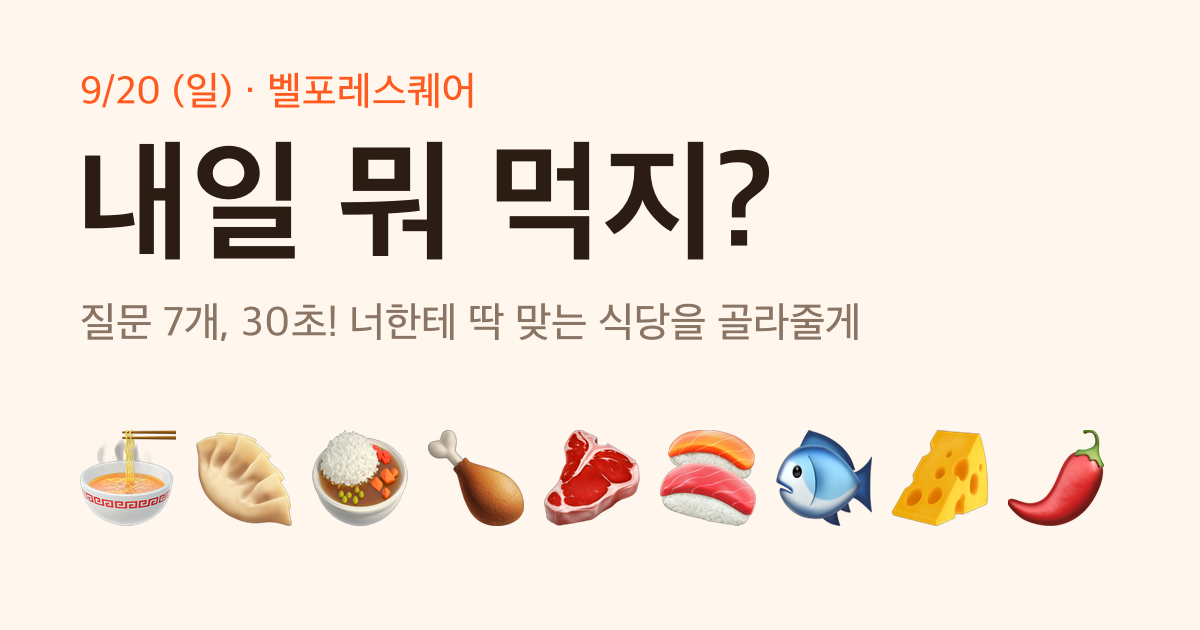
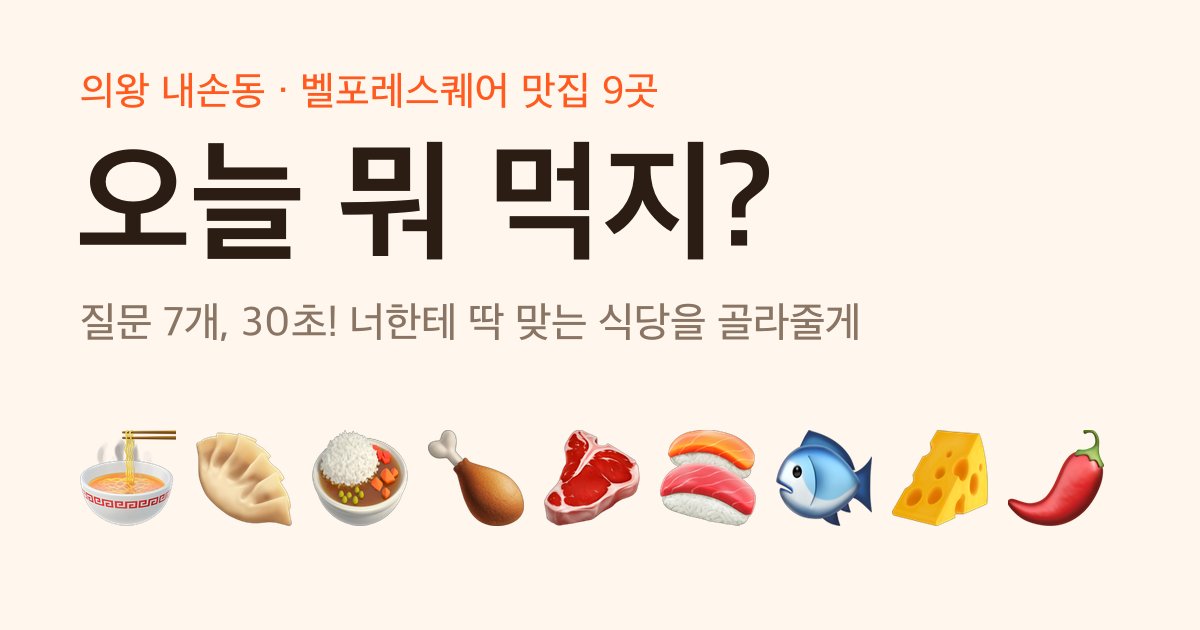
오프닝 안내 스토리 추가, 서비스명 '오늘 뭐 먹지?'로 변경

Changed region(s): [[0.0617, 0.2111, 0.2467, 0.4222], [0.0617, 0.1206, 0.555, 0.181]]

diff --git a/index.html b/index.html
@@ -3,12 +3,12 @@
 <head>
 <meta charset="utf-8">
 <meta name="viewport" content="width=device-width, initial-scale=1, viewport-fit=cover">
-<title>내일 뭐 먹지? 🍽</title>
+<title>오늘 뭐 먹지? 🍽</title>
 <meta name="description" content="질문 7개에 답하면 벨포레스퀘어 9곳 중 너한테 딱 맞는 식당을 골라줄게">
 <meta property="og:type" content="website">
-<meta property="og:title" content="내일 뭐 먹지? 🍽">
+<meta property="og:title" content="오늘 뭐 먹지? 🍽">
 <meta property="og:description" content="질문 7개, 30초! 너한테 딱 맞는 식당을 골라줄게">
-<meta property="og:image" content="https://passionryu.github.io/naeil-mwomeokji/og.png">
+<meta property="og:image" content="https://passionryu.github.io/naeil-mwomeokji/og.png?v=2">
 <meta property="og:image:width" content="1200">
 <meta property="og:image:height" content="630">
 <meta property="og:url" content="https://passionryu.github.io/naeil-mwomeokji/">
@@ -185,6 +185,79 @@
   .place .chips { justify-content: flex-start; margin-top: 10px; }
   .place .map { display: inline-flex; align-items: center; min-height: 40px; margin-top: 6px; font-size: 14px; font-weight: 700; color: var(--accent); text-decoration: none; }
 
+  /* 오프닝 스토리 */
+  .story {
+    position: fixed; inset: 0; z-index: 30; overflow: hidden; color: #fff; cursor: pointer; user-select: none;
+    background: linear-gradient(160deg, #FF5A1F 0%, #EC4899 60%, #7C3AED 100%);
+    transition: opacity .45s ease, transform .45s ease;
+  }
+  .story.bye { opacity: 0; transform: scale(1.06); pointer-events: none; }
+  .story-bars { position: absolute; top: max(14px, env(safe-area-inset-top)); left: 16px; right: 16px; display: flex; gap: 4px; z-index: 2; }
+  .story-bars i { flex: 1; height: 3px; border-radius: 9px; background: rgba(255,255,255,.35); overflow: hidden; }
+  .story-bars i b { display: block; height: 100%; width: 0; background: #fff; }
+  .story-bars i.done b { width: 100%; }
+  .story-bars i.now b { animation: bar linear forwards; }
+  @keyframes bar { to { width: 100%; } }
+  .story-skip {
+    position: absolute; top: calc(max(14px, env(safe-area-inset-top)) + 14px); right: 12px; z-index: 2;
+    min-height: 40px; padding: 0 14px; border: 0; border-radius: 99px; background: rgba(0,0,0,.18);
+    color: #fff; font-size: 14px; font-weight: 700; cursor: pointer;
+  }
+  .slide {
+    position: absolute; inset: 0; display: flex; flex-direction: column; align-items: center; justify-content: center;
+    padding: 80px 28px; text-align: center; animation: swoosh-in .5s cubic-bezier(.2,1.3,.4,1) both;
+  }
+  .slide.out { animation: swoosh-out .35s ease-in both; }
+  @keyframes swoosh-in { from { opacity: 0; transform: translateX(60%) rotate(8deg) scale(.9); } }
+  @keyframes swoosh-out { to { opacity: 0; transform: translateX(-60%) rotate(-8deg) scale(.9); } }
+  .slide .big { font-size: 96px; line-height: 1; margin-bottom: 24px; }
+  .slide h2 { font-size: 34px; line-height: 1.25; letter-spacing: -1px; margin: 0; font-weight: 800; }
+  .slide p { font-size: 18px; line-height: 1.5; margin: 14px 0 0; opacity: .92; font-weight: 600; }
+  .slide .delay { animation: rise .5s .45s ease-out both; }
+  @keyframes rise { from { opacity: 0; transform: translateY(14px); } }
+
+  .dict { background: #fff; color: #2B1D14; border-radius: 20px; padding: 22px 22px 20px; text-align: left; max-width: 320px; box-shadow: 0 16px 40px rgba(0,0,0,.2); }
+  .dict .w { font-size: 30px; font-weight: 900; letter-spacing: -1px; }
+  .dict .pos { font-size: 13px; color: #8A7565; font-weight: 700; margin-left: 6px; }
+  .dict .def { font-size: 17px; line-height: 1.5; margin-top: 10px; font-weight: 600; }
+  .dict .def mark { background: #FFE0A3; color: inherit; padding: 0 2px; }
+  .brain { animation: wobble .9s ease-in-out infinite; display: inline-block; }
+  @keyframes wobble { 25% { transform: rotate(-10deg); } 75% { transform: rotate(10deg); } }
+
+  .point { display: inline-block; animation: poke .6s .3s ease-in-out 3; }
+  @keyframes poke { 50% { transform: translateX(18px) scale(1.15); } }
+  .dots span { animation: blink 1.2s infinite both; }
+  .dots span:nth-child(2) { animation-delay: .2s; } .dots span:nth-child(3) { animation-delay: .4s; }
+  @keyframes blink { 0%, 80%, 100% { opacity: .2; } 40% { opacity: 1; } }
+
+  .gift { display: inline-block; animation: gift 1s cubic-bezier(.3,1.8,.5,1) both; }
+  @keyframes gift { 0% { transform: scale(0) rotate(-30deg); } 60% { transform: scale(1.25) rotate(8deg); } }
+  .confetti { position: absolute; top: 40%; left: 50%; width: 10px; height: 14px; border-radius: 2px; animation: burst 1.2s ease-out both; }
+  @keyframes burst { from { transform: translate(-50%, -50%) rotate(0); opacity: 1; } to { transform: translate(var(--x), var(--y)) rotate(540deg); opacity: 0; } }
+
+  .nums { display: flex; flex-wrap: wrap; justify-content: center; gap: 8px; margin-bottom: 28px; }
+  .nums b {
+    width: 42px; height: 42px; border-radius: 50%; background: #fff; color: #EC4899; display: grid; place-items: center;
+    font-size: 20px; font-weight: 900; animation: popin .4s cubic-bezier(.3,1.8,.5,1) both;
+  }
+  @keyframes popin { from { transform: scale(0); } }
+
+  .reel { height: 110px; overflow: hidden; margin-bottom: 20px; }
+  .reel div { font-size: 96px; line-height: 110px; animation: spin 1.8s cubic-bezier(.2,.7,.2,1) both; }
+  @keyframes spin { from { transform: translateY(0); } to { transform: translateY(calc(-110px * 9)); } }
+  .stamp { display: inline-block; margin-top: 18px; padding: 6px 14px; border: 3px solid #fff; border-radius: 10px; font-weight: 900; font-size: 18px; transform: rotate(-6deg); animation: stamp .35s 1.7s cubic-bezier(.3,1.8,.5,1) both; }
+  @keyframes stamp { from { opacity: 0; transform: rotate(-6deg) scale(2.2); } }
+
+  .slow h2 { font-size: 44px; animation: breathe 3s ease-in-out both; }
+  @keyframes breathe { from { letter-spacing: 12px; opacity: 0; } 50% { opacity: 1; } to { letter-spacing: -1px; } }
+  .salute { display: inline-block; animation: salute 1s .8s ease-in-out both; }
+  @keyframes salute { 50% { transform: rotate(-20deg); } }
+
+  .go h2 { font-size: 64px; display: inline-block; animation: stretch .8s cubic-bezier(.3,1.6,.5,1) both; }
+  @keyframes stretch { 0% { transform: scaleX(.2); } 60% { transform: scaleX(1.25); } }
+  .rocket { display: inline-block; animation: launch 1.6s .5s ease-in both; }
+  @keyframes launch { 0% { transform: translate(0, 0); } 20% { transform: translate(-3px, 2px); } 30% { transform: translate(3px, -2px); } 100% { transform: translate(140px, -900px) rotate(20deg); } }
+
   .toast {
     position: fixed; left: 50%; bottom: max(28px, env(safe-area-inset-bottom)); transform: translate(-50%, 20px);
     background: var(--ink); color: var(--bg); padding: 12px 18px; border-radius: 14px; font-weight: 700; font-size: 15px;
@@ -197,7 +270,7 @@
 <body>
 <main class="app" id="app"></main>
 <div class="toast" id="toast" role="status" aria-live="polite"></div>
-<script src="core.js?v=4"></script>
+<script src="core.js?v=5"></script>
 <script>
 (function () {
   const { RESTAURANTS, QUESTIONS, PRICE_LABEL, visibleOptions, recommend, shareText } = window.Core;
@@ -235,7 +308,7 @@
     app.innerHTML = `
       <section class="screen">
         <div class="intro-hero">
-          <h1>내일<br><em>뭐 먹지?</em></h1>
+          <h1>오늘<br><em>뭐 먹지?</em></h1>
           <p>질문 7개에 답하면<br>벨포레스퀘어 9곳 중 너한테 딱 맞는 곳을 골라줄게.</p>
           <div class="emoji-row">${RESTAURANTS.map((r, i) => `<span style="animation-delay:${i * 0.15}s">${r.emoji}</span>`).join("")}</div>
           <button class="list-btn" id="openList" type="button">📋 후보 식당 ${RESTAURANTS.length}곳 보기</button>
@@ -459,7 +532,85 @@
     toastTimer = setTimeout(() => t.classList.remove("show"), 2200);
   }
 
+  // 오프닝 스토리: 링크로 들어오면 3초마다 넘어가는 안내 7장
+  function playStory(done) {
+    const confetti = Array.from({ length: 18 }, (_, i) => {
+      const a = (i / 18) * Math.PI * 2;
+      const d = 120 + (i % 3) * 50;
+      const colors = ["#FFE066", "#fff", "#7CF5C8", "#FFB3D9"];
+      return `<i class="confetti" style="background:${colors[i % 4]};--x:${Math.cos(a) * d}px;--y:${Math.sin(a) * d}px;animation-delay:${0.35 + (i % 4) * 0.05}s"></i>`;
+    }).join("");
+    const reel = RESTAURANTS.map((r) => r.emoji).concat("🍽").map((e) => `<div>${e}</div>`).join("");
+
+    const slides = [
+      `<div class="big brain">🤯</div>
+       <div class="dict"><span class="w">결정 장애</span><span class="pos">[명사]</span>
+         <div class="def">좋은 후보들을 줘도 <mark>결정을 하지 못하는</mark> 증상</div></div>`,
+      `<div class="big"><span class="point">👉</span></div>
+       <h2>혹시<span class="dots"><span>.</span><span>.</span><span>.</span></span><br>당신이신가요?</h2>`,
+      `${confetti}<div class="big gift">🎁</div>
+       <h2>그런 당신을 위해서<br>준비했습니다!</h2>`,
+      `<div class="nums">${[1, 2, 3, 4, 5, 6, 7].map((n) => `<b style="animation-delay:${0.2 + n * 0.12}s">${n}</b>`).join("")}</div>
+       <h2>7가지 질문에<br>솔직하게 답변만 하시면!</h2>`,
+      `<div class="reel"><div>${reel}</div></div>
+       <h2>여러분의 상황에 딱 맞는<br>식당을 골라줍니다!</h2>
+       <span class="stamp">최적화 완료 ✓</span>`,
+      `<div class="big"><span class="salute">🫡</span></div><div class="slow"><h2>자 그럼</h2></div>`,
+      `<div class="big"><span class="rocket">🚀</span></div><div class="go"><h2>출바알~!</h2></div>`,
+    ];
+    const DURATION = 3000;
+
+    const el = document.createElement("div");
+    el.className = "story";
+    el.setAttribute("role", "dialog");
+    el.setAttribute("aria-label", "서비스 소개");
+    el.innerHTML = `
+      <div class="story-bars">${slides.map(() => "<i><b></b></i>").join("")}</div>
+      <button class="story-skip" type="button">건너뛰기 ›</button>
+      <div class="stage"></div>`;
+    document.body.appendChild(el);
+    document.body.classList.add("locked");
+    const stage = el.querySelector(".stage");
+    const bars = el.querySelectorAll(".story-bars i");
+    let idx = -1, timer, finished = false;
+
+    function show(n) {
+      clearTimeout(timer);
+      if (n >= slides.length) return finish();
+      const prev = stage.querySelector(".slide");
+      if (prev) { prev.classList.add("out"); setTimeout(() => prev.remove(), 350); }
+      idx = n;
+      bars.forEach((b, k) => {
+        b.className = k < n ? "done" : "";
+        b.firstChild.style.animationDuration = "";
+      });
+      void bars[n].offsetWidth; // 진행 바 애니메이션 재시작
+      bars[n].className = "now";
+      bars[n].firstChild.style.animationDuration = DURATION + "ms";
+      const s = document.createElement("div");
+      s.className = "slide";
+      s.innerHTML = slides[n];
+      stage.appendChild(s);
+      timer = setTimeout(() => show(n + 1), DURATION);
+    }
+    function finish() {
+      if (finished) return;
+      finished = true;
+      clearTimeout(timer);
+      el.classList.add("bye");
+      document.body.classList.remove("locked");
+      setTimeout(() => el.remove(), 450);
+      done && done();
+    }
+    el.addEventListener("click", (e) => {
+      if (e.target.closest(".story-skip")) return finish();
+      show(idx + 1); // 화면을 탭하면 다음 장으로
+    });
+    show(0);
+  }
+
   render();
+  playStory();
 })();
 </script>
 </body>

diff --git a/core.js b/core.js
@@ -1,4 +1,4 @@
-// 내일 뭐먹지 — 식당 데이터 + 질문 + 추천 로직
+// 오늘 뭐먹지 — 식당 데이터 + 질문 + 추천 로직
 // 브라우저(window.Core)와 Node(시뮬레이션 테스트) 양쪽에서 사용
 
 (function (root) {
@@ -165,7 +165,7 @@
       .filter((o) => o && o.tag)
       .map((o) => `🚫${o.tag}`)
       .join(" ");
-    return `[내일 뭐먹지] ${name} → 1위 ${a.r.name} ${a.r.emoji}${rest ? ` (${rest})` : ""}${tags ? ` ${tags}` : ""}`;
+    return `[오늘 뭐먹지] ${name} → 1위 ${a.r.name} ${a.r.emoji}${rest ? ` (${rest})` : ""}${tags ? ` ${tags}` : ""}`;
   }
 
   const Core = { RESTAURANTS, QUESTIONS, PRICE_LABEL, visibleOptions, recommend, shareText };

diff --git a/README.md b/README.md
@@ -1,8 +1,8 @@
 <div align="center">
 
-<a href="https://passionryu.github.io/naeil-mwomeokji/"><img src="og.png" alt="내일 뭐 먹지?" width="720"></a>
+<a href="https://passionryu.github.io/naeil-mwomeokji/"><img src="og.png" alt="오늘 뭐 먹지?" width="720"></a>
 
-# 🍽 내일 뭐 먹지?
+# 🍽 오늘 뭐 먹지?
 
 ### "아무거나"는 이제 그만. 질문 7개, 30초면 오늘 갈 식당이 정해집니다.
 
@@ -20,7 +20,7 @@
 
 ## 😩 이런 단톡방, 익숙하지 않나요?
 
-> **A:** 내일 뭐 먹을래?
+> **A:** 오늘 뭐 먹을래?
 > **B:** 아무거나~
 > **C:** 난 다 좋아
 > **D:** 어제 중식 먹었는데…
@@ -28,7 +28,7 @@
 
 8명이 모이면 메뉴 하나 정하는 데 한참 걸립니다. 누구는 이번 주에 치킨을 두 번 먹었고, 누구는 회를 못 먹고, 누구는 오늘 지갑이 가볍습니다. **이걸 다 기억하고 조율하는 건 주최자 몫**이었죠.
 
-**「내일 뭐 먹지?」는 그 30분을 30초로 줄여 드립니다.**
+**「오늘 뭐 먹지?」는 그 30분을 30초로 줄여 드립니다.**
 
 ---
 
@@ -42,7 +42,7 @@
 
 ---
 
-## 🔥 왜 「내일 뭐 먹지?」인가
+## 🔥 왜 「오늘 뭐 먹지?」인가
 
 | | 기능 | 이게 왜 좋냐면 |
 |:-:|---|---|
@@ -70,9 +70,9 @@
 단톡방은 이런 모습이 됩니다.
 
 ```
-민수: [내일 뭐먹지] 민수 → 1위 최대포 🥩 (2위 홍춘천 치즈닭갈비 · 3위 벤탄빌라) 🚫날것
-지은: [내일 뭐먹지] 지은 → 1위 벤탄빌라 🍜 (2위 하루엔소쿠 · 3위 홍콩반점)
-철수: [내일 뭐먹지] 철수 → 1위 최대포 🥩 (2위 보드람치킨 · 3위 벤탄빌라)
+민수: [오늘 뭐먹지] 민수 → 1위 최대포 🥩 (2위 홍춘천 치즈닭갈비 · 3위 벤탄빌라) 🚫날것
+지은: [오늘 뭐먹지] 지은 → 1위 벤탄빌라 🍜 (2위 하루엔소쿠 · 3위 홍콩반점)
+철수: [오늘 뭐먹지] 철수 → 1위 최대포 🥩 (2위 보드람치킨 · 3위 벤탄빌라)
 ```
 
 ### 🧑✈ 주최자용 결정 공식
@@ -208,7 +208,7 @@ naeil-mwomeokji/
 
 ### 🍽 오늘 저녁 메뉴, 더 이상 고민하지 마세요.
 
-<a href="https://passionryu.github.io/naeil-mwomeokji/"><img src="https://img.shields.io/badge/%F0%9F%91%89%20%EB%82%B4%EC%9D%BC%20%EB%AD%90%20%EB%A8%B9%EC%A7%80%3F%20%EC%8B%9C%EC%9E%91%ED%95%98%EA%B8%B0-FF5A1F?style=for-the-badge" alt="내일 뭐 먹지? 시작하기" height="44"></a>
+<a href="https://passionryu.github.io/naeil-mwomeokji/"><img src="https://img.shields.io/badge/%F0%9F%91%89%20%EC%98%A4%EB%8A%98%20%EB%AD%90%20%EB%A8%B9%EC%A7%80%3F%20%EC%8B%9C%EC%9E%91%ED%95%98%EA%B8%B0-FF5A1F?style=for-the-badge" alt="오늘 뭐 먹지? 시작하기" height="44"></a>
 
 <sub>Made with 🧡 for 새중앙교회 친구들 · Built with <a href="https://claude.com/claude-code">Claude Code</a></sub>
 
